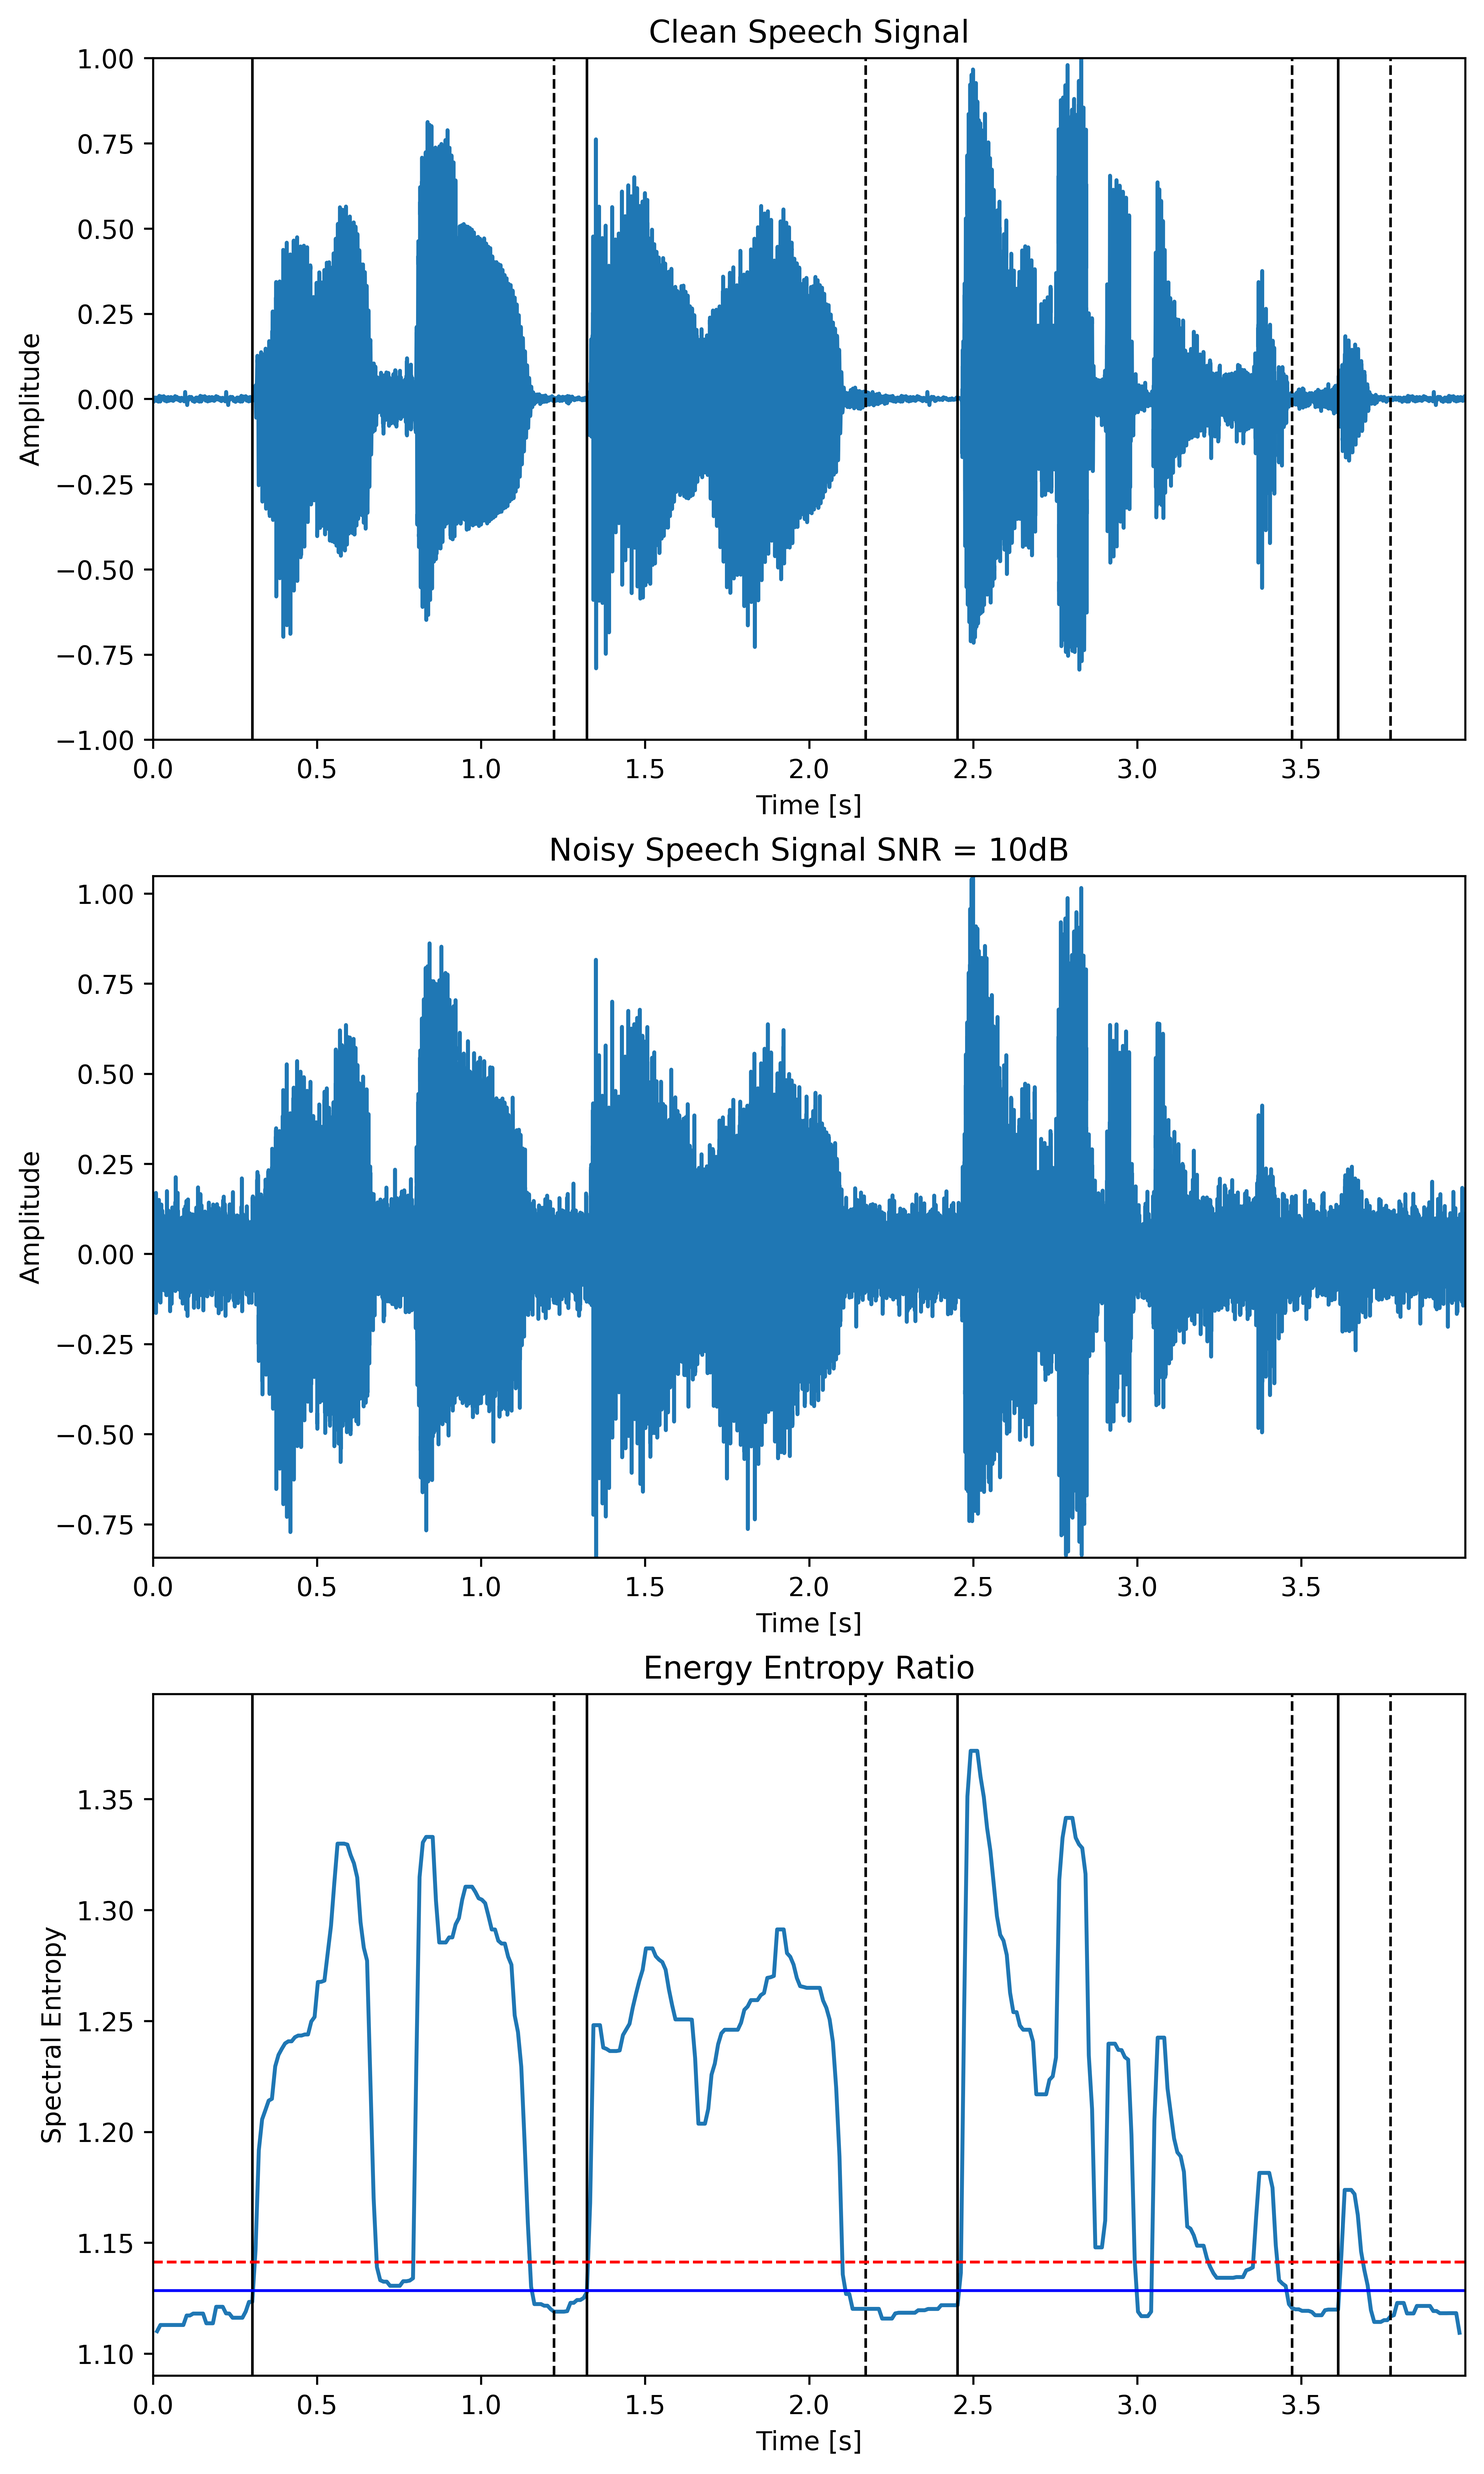
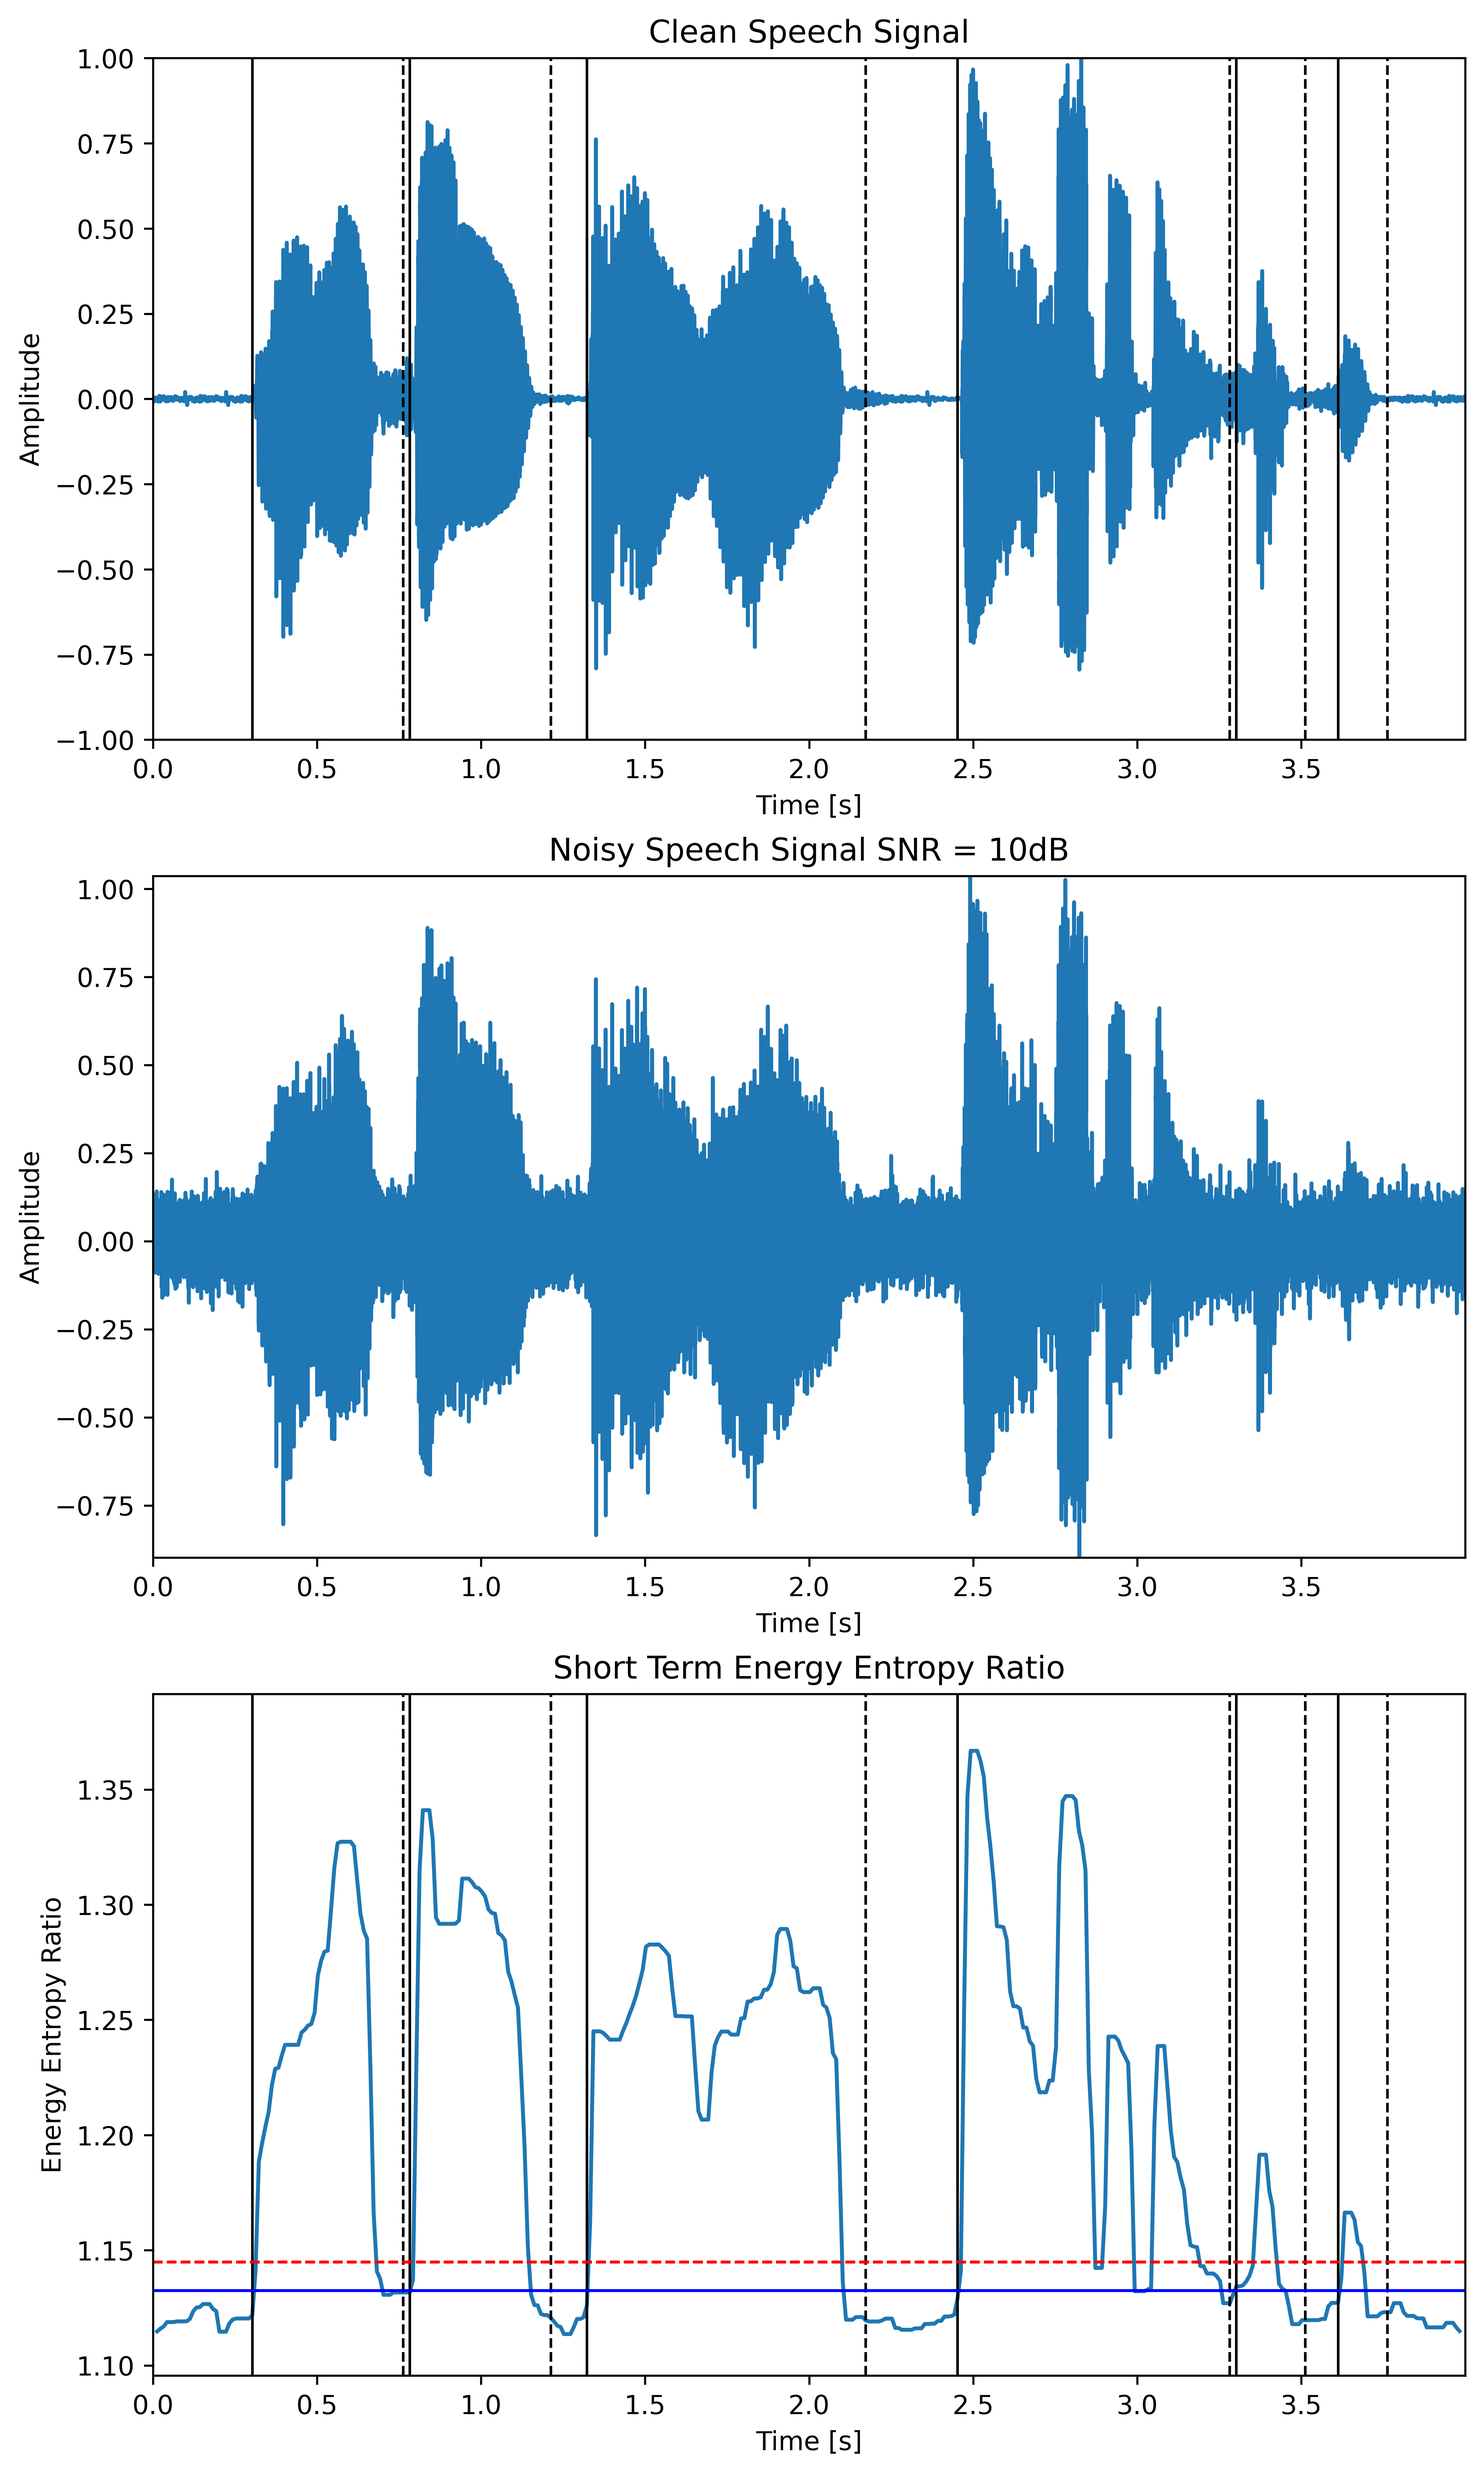
VAD(energy entropy ratio)

diff --git a/Chapter6_EndpointDetection/pr6_7_2.py b/Chapter6_EndpointDetection/pr6_7_2.py
@@ -77,8 +77,8 @@ if __name__ == '__main__':
 	bottom = eth - 0.1 * Det
 	plt.axis([0, np.max(time), bottom, top])
 	plt.xlabel('Time [s]')
-	plt.ylabel('Spectral Entropy')
-	plt.title('Energy Entropy Ratio')
+	plt.ylabel('Energy Entropy Ratio')
+	plt.title('Short Term Energy Entropy Ratio')
 	for k in range(vsl):
 		nx1 = voiceseg['begin'][k]
 		nx2 = voiceseg['end'][k]
